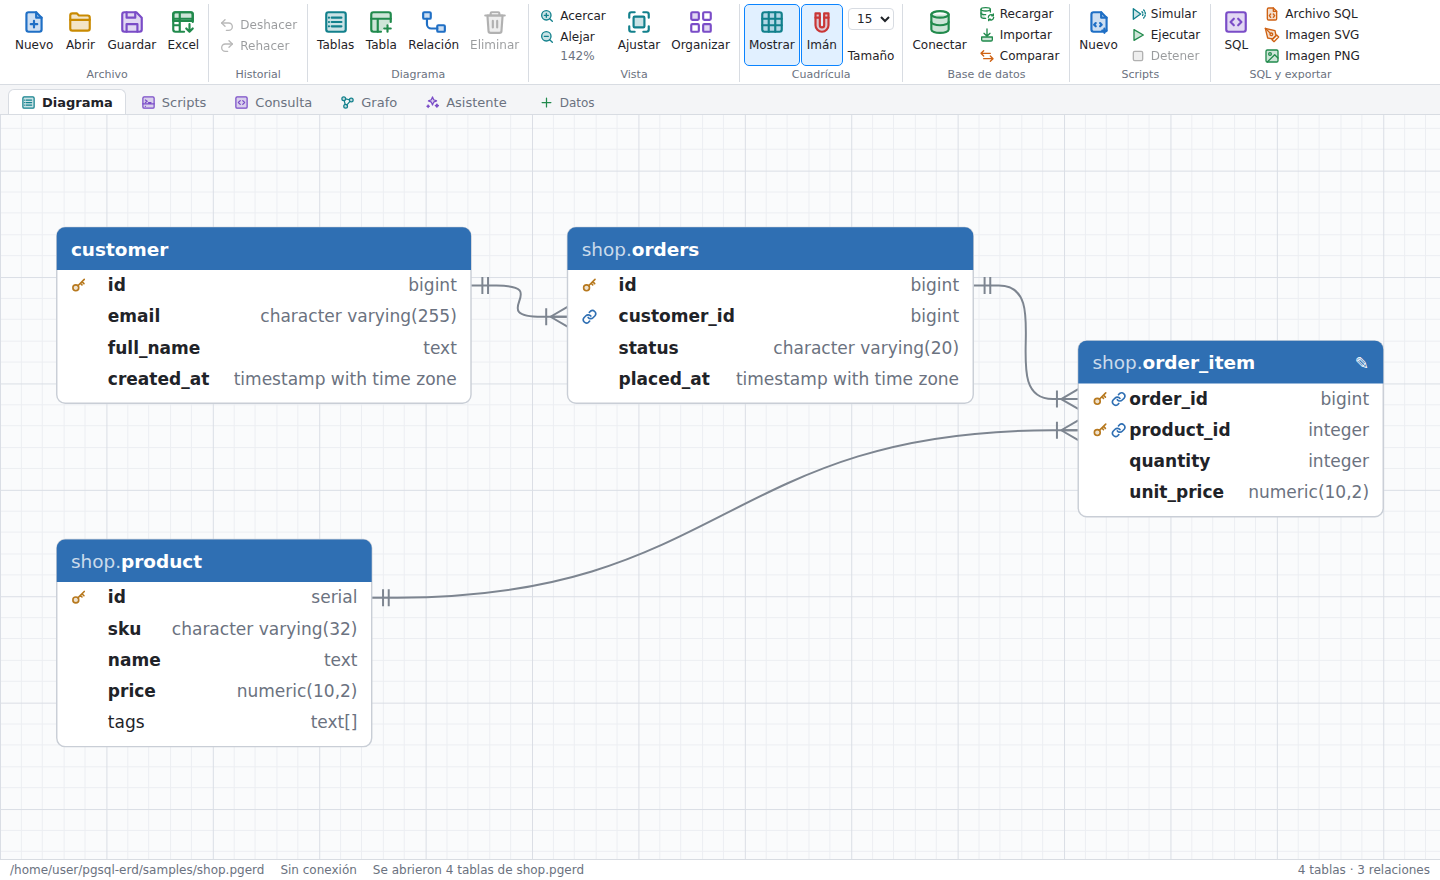
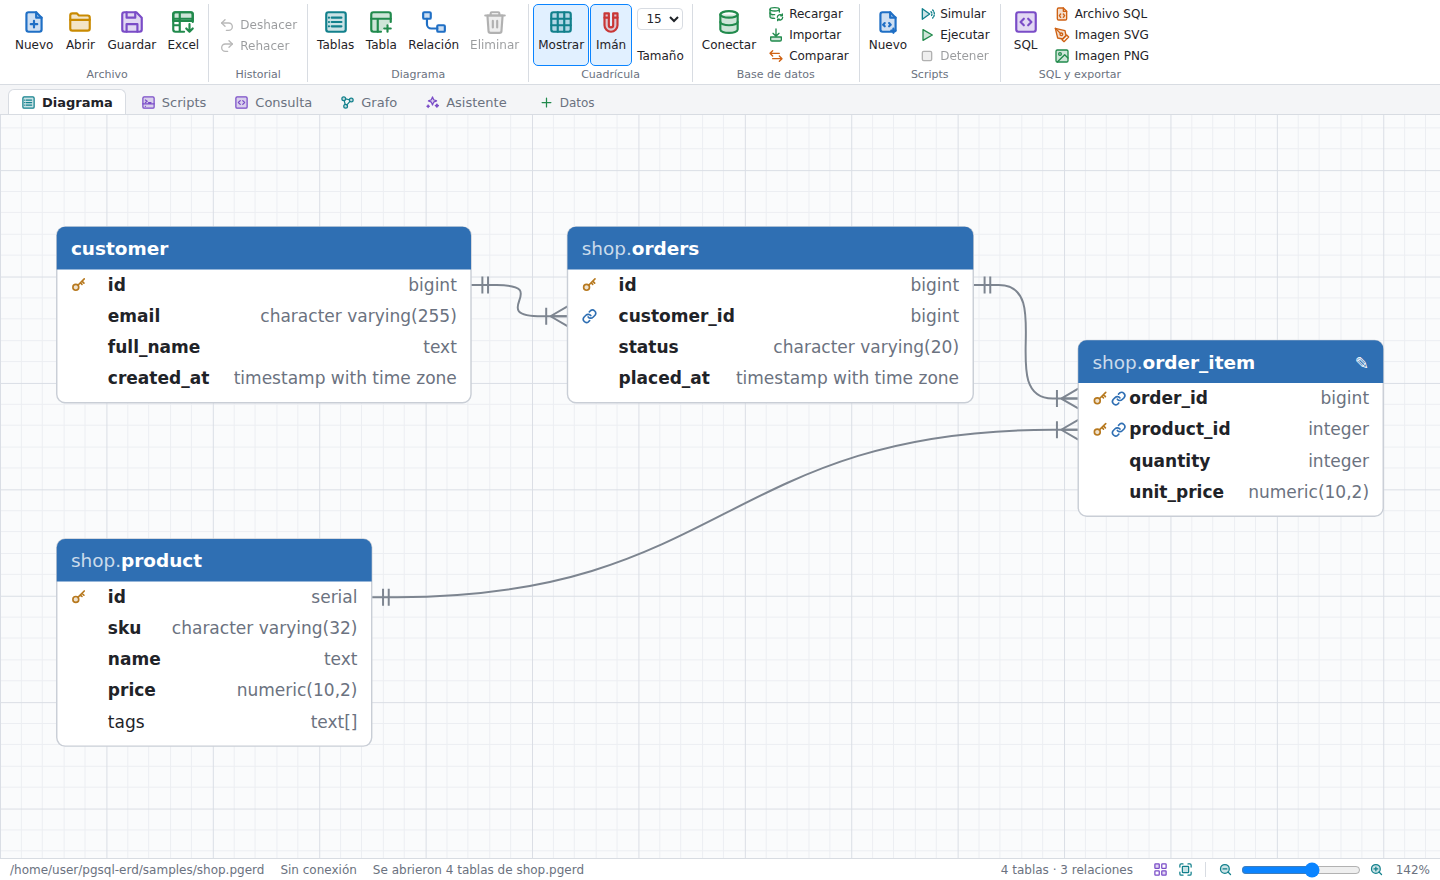
Retake the diagram and ribbon screenshots for the status bar zoom slider
The View ribbon group moved to the status bar; the English and Spanish
diagram and ribbon screenshots now show it there, and both READMEs
describe the zoom slider instead of a View group.

Claude-Session: https://claude.ai/code/session_01RCeoJFGYqw9cMJ4kBWhHMH

diff --git a/README-es.md b/README-es.md
@@ -14,7 +14,7 @@ funciona con Ollama, vLLM, OpenAI y otros servidores compatibles con OpenAI.
 ## Capturas de pantalla
 
 **Cinta de opciones y pestañas:** los comandos se agrupan al estilo de Office (Archivo, Historial, Diagrama,
-Vista, Cuadrícula, Base de datos, Scripts, SQL y exportar) con iconos a dos colores; los menús nativos usan los
+Cuadrícula, Base de datos, Scripts, SQL y exportar) con iconos a dos colores; los menús nativos usan los
 mismos iconos. Debajo de la cinta, las pestañas cambian entre **Diagrama**, **Scripts**, **Consulta**, **Grafo**
 y **Asistente**, seguidas de una pestaña por cada tabla cuyos datos estés explorando.
 
@@ -61,8 +61,10 @@ y **Asistente**, seguidas de una pestaña por cada tabla cuyos datos estés expl
   - editar columnas: nombre, tipo, longitud/escala, NOT NULL, PK, valor predeterminado, orden
   - establecer esquema, comentario, nota y color del encabezado
   - agregar y quitar relaciones, creando opcionalmente la columna FK
-- Arrastra las tablas para moverlas. Arrastra el fondo para desplazarte, usa la rueda para acercar o alejar, y
-  usa **Ajustar** u **Organizar** para ordenarlo todo.
+- Arrastra las tablas para moverlas. Arrastra el fondo para desplazarte y usa la rueda para acercar o alejar.
+  La barra de estado reúne los controles de vista, como en Word: un control deslizante de zoom (100% en el
+  centro) con botones para alejar y acercar y el nivel de zoom, además de **Ajustar** y **Organizar** para
+  ordenarlo todo.
 - Detrás del diagrama se dibuja una cuadrícula (**Mostrar**, <kbd>Ctrl</kbd>+<kbd>Alt</kbd>+<kbd>G</kbd>), con
   una línea más marcada cada cinco celdas. Con **Imán** activado (<kbd>Ctrl</kbd>+<kbd>Mayús</kbd>+<kbd>G</kbd>),
   las tablas arrastradas, los desplazamientos con las flechas, las tablas nuevas y la organización automática

diff --git a/README.md b/README.md
@@ -12,8 +12,8 @@ filters, and an AI assistant that works with Ollama, vLLM, OpenAI and other Open
 
 ## Screenshots
 
-**Ribbon and tabs:** commands are grouped Office-style (File, History, Diagram, View, Grid, Database,
-Scripts, SQL & Export) with two-tone colour icons; the native menus use the same icons. Below the ribbon,
+**Ribbon and tabs:** commands are grouped Office-style (File, History, Diagram, Grid, Database, Scripts,
+SQL & Export) with two-tone colour icons; the native menus use the same icons. Below the ribbon,
 tabs switch between the **Diagram**, **Scripts**, **Query**, **Graph** and **Assistant**, followed by one tab per
 table whose data you are browsing.
 
@@ -58,8 +58,9 @@ table whose data you are browsing.
   - edit columns: name, type, length/scale, NOT NULL, PK, default value, order
   - set schema, comment, note and header colour
   - add and remove relationships, optionally creating the FK column for you
-- Drag tables to move them. Drag the background to pan, scroll to zoom, and use **Fit** or
-  **Auto layout** to tidy up.
+- Drag tables to move them. Drag the background to pan and scroll to zoom. The status bar holds the
+  view controls, as in Word: a zoom slider (100% in the middle) with zoom out/in buttons and the
+  zoom level, plus **Fit** and **Auto layout** to tidy up.
 - A grid is drawn behind the diagram (**Grid**, <kbd>Ctrl</kbd>+<kbd>Alt</kbd>+<kbd>G</kbd>), with a
   heavier line every fifth cell. With **Snap** on (<kbd>Ctrl</kbd>+<kbd>Shift</kbd>+<kbd>G</kbd>),
   dragged tables, arrow-key nudges, new tables and auto layout all land on grid lines; hold
